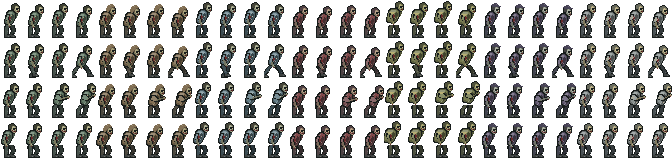
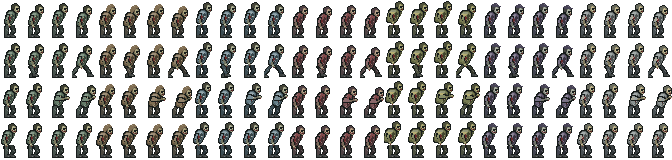
Refine character silhouettes and eight-direction movement

diff --git a/game/view.js b/game/view.js
@@ -1417,7 +1417,7 @@ const View = (() => {
   }
 
   function actorFrame(shirt, trousers, skin, hair, direction, pose, step, lift, pack, gesture, cut = "short") {
-    const back = (direction & 2) !== 0, axial = (direction & 4) !== 0;
+    const back = (direction & 2) !== 0, axial = (direction & 4) !== 0, profile = (direction & 8) !== 0;
     const showPack = back && pack && pose !== "dead";
     const key = [shirt, trousers, skin, hair, direction, pose, step, lift, showPack, gesture, cut].join("|");
     if (actorFrames.has(key)) return actorFrames.get(key);
@@ -1464,13 +1464,15 @@ const View = (() => {
       rect(24,40,3,2,shirt); rect(28,41,3,2,skinDark); rect(29,39,3,2,hair);
     } else {
       const strike = pose === "strike" || pose === "chase";
-      const crouch = pose === "rest" ? 7 : pose === "sneak" ? 4 : 0;
-      const lean = pose === "hurt" ? -3 : strike ? [-2,1,3][gesture] : pose === "run" || pose === "sneak" ? 2 : 0;
+      const running = pose === "run";
+      const crouch = pose === "rest" ? 7 : pose === "sneak" ? 4 : running ? 1 : 0;
+      const lean = pose === "hurt" ? -3 : strike ? [-2,1,3][gesture] : running ? 4 : pose === "sneak" ? 2 : 0;
       const x = 18 + (axial ? Math.sign(lean) : lean);
       const y = 15 + crouch - Number(lift !== 0) - (pose === "idle" ? gesture : 0);
       const hip = Math.min(34,y+14);
-      for (const [leg,root] of [21,15].entries()) {
-        const stride = (leg ? step : -step) * (axial ? 1 : 3);
+      const legs = profile ? [19,16] : [21,15];
+      for (const [leg,root] of legs.entries()) {
+        const stride = (leg ? step : -step) * (axial ? 1 : running ? 4 : 3);
         const knee = root + Math.round(stride*.6) + Number(crouch>0), foot = root + (axial ? 0 : stride);
         const depth = axial ? Math.min(0,Math.sign(stride)*(back ? -2 : 2)) : 0;
         const sole = 45 + depth - (lift === (leg ? -1 : 1) ? 3 : 0);
@@ -1479,44 +1481,54 @@ const View = (() => {
           [foot+5,sole-2],[foot+5,sole+1],[foot-4,sole+1],[foot-3,sole-4],[knee-3,bend]],ink);
         shape([[root-3,hip-1],[root+2,hip-1],[knee+2,bend],[foot+1,sole-4],
           [foot-2,sole-4],[knee-2,bend]],leg ? trousers : jeanDark);
+        if (leg) {
+          rect(knee-2,bend-2,3,2,jeanLight);
+          rect(knee,bend-3,2,1,jeanLight);
+        }
         rect(knee-1,bend,3,1,jeanLight);
         rect(knee,bend+1,2,1,jeanDark);
         rect(foot-2,sole-3,5,2,boot);
-        rect(foot+1,sole-2,3,1,"#82715b");
+        rect(foot+1,sole-2,3,1,"#a58a6b");
+        rect(foot-1,sole-3,2,1,"#b99b74");
         rect(foot-3,sole,7,1,"#65574a");
       }
       const swing = Math.sign(step);
-      const farHand = x-9+swing, farY = Math.min(41,y+14-swing);
+      const armSwing = swing * (running ? 5 : 2);
+      const farHand = x-(profile ? 5 : 9)+armSwing;
+      const farY = Math.min(41,y+14-(running ? 4 : 1)*Math.max(0,swing));
       shape([[x-7,y],[x-4,y+2],[farHand+3,y+8],[farHand+2,farY+2],
         [farHand-2,farY+2],[farHand-2,y+7],[x-9,y+3]],ink);
       shape([[x-7,y+1],[x-5,y+2],[farHand+1,y+8],[farHand+1,farY-1],
         [farHand-1,farY-1],[farHand-1,y+7],[x-8,y+3]],jacketDark);
       rect(farHand-1,farY-1,2,2,skinDark);
 
-      shape([[x-6,y-2],[x+4,y-2],[x+8,y+1],[x+6,y+6],[x+4,hip],
-        [x-5,hip],[x-6,hip-4],[x-8,y+2]],ink);
-      shape([[x-6,y-1],[x+3,y-1],[x+6,y+1],[x+5,y+6],[x+3,hip-1],
-        [x-4,hip-1],[x-5,hip-5],[x-7,y+2]],shirt);
-      shape([[x-6,y],[x+3,y],[x+2,y+2],[x-4,y+3],[x-6,y+2]],jacketLight);
-      rect(x+3,y+6,1,Math.max(1,hip-y-7),jacketDark);
+      const torsoLeft = x - (profile ? 5 : 7), torsoRight = x + (profile ? 5 : 7);
+      shape([[torsoLeft+1,y-2],[torsoRight-3,y-2],[torsoRight+1,y+1],[torsoRight-1,y+6],
+        [x+4,hip],[x-5,hip],[torsoLeft+1,hip-4],[torsoLeft-1,y+2]],ink);
+      shape([[torsoLeft+1,y-1],[torsoRight-4,y-1],[torsoRight-1,y+1],[torsoRight-2,y+6],
+        [x+3,hip-1],[x-4,hip-1],[torsoLeft+2,hip-5],[torsoLeft,y+2]],shirt);
+      shape([[torsoLeft+1,y],[torsoRight-4,y],[x+2,y+2],[x-4,y+3],[torsoLeft+1,y+2]],jacketLight);
+      shape([[torsoRight-2,y+4],[x+4,y+9],[x+3,hip-1],[x-3,hip-1],[x+1,hip-4]],jacketDark);
       rect(x-3,hip-2,5,1,jacketDark);
       if (!back) {
-        const zipper = x + (axial ? 0 : 1);
-        rect(zipper,y+2,1,hip-y-4,jacketDark);
-        rect(zipper,y+3,1,2,"#c2b8a0");
+        const zipper = x + (axial ? 0 : profile ? 3 : 1);
+        rect(zipper,y+1,1,hip-y-4,jacketDark);
+        rect(zipper,y+3,1,2,"#ded0ac");
         rect(x-4,y+5,3,1,jacketDark);
         rect(x-4,y+6,2,1,jacketLight);
-        rect(x-5,y+2,1,1,"#aea176");
+        rect(x-5,y+2,1,1,"#c4ad80");
+        rect(x-3,hip-4,2,1,jacketLight);
       }
 
-      const handX = strike ? Math.min(32,x+[6,13,11][gesture]) : x+9-swing;
-      const handY = strike ? y+[4,6,3][gesture] : Math.min(41,y+14+swing);
-      const elbow = strike ? x+7 : x+9;
+      const handX = Math.min(32,strike ? x+[6,13,11][gesture] : x+(profile ? 5 : 8)-armSwing);
+      const handY = strike ? y+[4,6,3][gesture] : Math.min(41,y+14+swing-(running ? 3 : 0));
+      const elbow = strike ? x+7 : x+(profile ? 4 : 7) - (running ? swing * 2 : 0);
       shape([[x+3,y],[x+7,y],[elbow+2,y+6],[handX+2,handY-1],
         [handX+2,handY+3],[handX-2,handY+3],[elbow-2,y+9],[x+2,y+3]],ink);
       shape([[x+3,y+1],[x+6,y+1],[elbow+1,y+6],[handX+1,handY-1],
         [handX-1,handY],[elbow-1,y+8]],shirt);
       rect(elbow,y+5,2,2,jacketLight);
+      rect(elbow-1,y+7,2,1,jacketDark);
       rect(handX-1,handY-1,3,1,jacketDark);
       rect(handX-1,handY,3,2,skin);
       rect(handX-1,handY,1,1,skinLight);
@@ -1533,7 +1545,7 @@ const View = (() => {
           }
         }
       }
-      const hx = x + Number(!axial && !back), hy = y-10;
+      const hx = x + (profile ? 2 : Number(!axial && !back)), hy = y-11;
       shape([[hx-5,hy+1],[hx-3,hy-1],[hx+3,hy-1],[hx+6,hy+2],[hx+6,hy+6],
         [hx+3,hy+10],[hx-3,hy+9],[hx-5,hy+6]],ink);
       shape([[hx-4,hy+2],[hx-2,hy],[hx+3,hy],[hx+5,hy+2],[hx+4,hy+6],
@@ -1544,8 +1556,8 @@ const View = (() => {
       } else {
         shape([[hx-4,hy+2],[hx-2,hy],[hx+3,hy],[hx+5,hy+2],[hx+2,hy+3],
           [hx-1,hy+3],[hx-3,hy+6],[hx-4,hy+5]],hair);
-        rect(hx-2,hy+1,4,1,tint(hair,26));
-        rect(hx-3,hy+2,2,1,tint(hair,13));
+        shape([[hx-3,hy+1],[hx+2,hy],[hx+4,hy+2],[hx+1,hy+3],[hx-3,hy+3]],tint(hair,24));
+        rect(hx-2,hy+1,3,1,tint(hair,38));
         if (cut === "wavy") {
           rect(hx-3,hy-1,3,2,hair);
           rect(hx+2,hy-1,2,2,hair);
@@ -1565,12 +1577,14 @@ const View = (() => {
       } else if (axial) {
         shape([[hx-4,hy+4],[hx+4,hy+4],[hx+3,hy+7],[hx+2,hy+9],[hx-2,hy+9],[hx-3,hy+7]],skin);
         rect(hx-3,hy+5,2,1,ink); rect(hx+1,hy+5,2,1,ink);
-        rect(hx-1,hy+6,2,1,skinLight); rect(hx-1,hy+8,2,1,skinDark);
+        rect(hx-2,hy+6,4,1,skinLight);
+        rect(hx-1,hy+8,2,1,skinDark);
       } else {
         shape([[hx,hy+3],[hx+4,hy+3],[hx+6,hy+6],[hx+4,hy+7],[hx+3,hy+9],
           [hx-1,hy+8],[hx-2,hy+6]],skin);
-        rect(hx+2,hy+4,2,1,ink);
-        rect(hx+4,hy+6,2,1,skinLight);
+        rect(hx+(profile ? 3 : 2),hy+4,2,1,ink);
+        rect(hx+2,hy+6,4,1,skinLight);
+        rect(hx,hy+5,1,2,skinDark);
         rect(hx+1,hy+8,2,1,skinDark);
       }
       if (pose === "hurt" && !back) rect(hx-2,hy+7,2,1,"#a86452");
@@ -1714,8 +1728,12 @@ const View = (() => {
     const swing = isPlayer && a.swing > 0 ? state.swingVisual : null;
     const dx = swing?.dx ?? a.headingX ?? (a.face < 0 ? -1 : 1), dy = swing?.dy ?? a.headingY ?? 0;
     const across = dx - dy, depth = dx + dy;
-    const axial = isPlayer && Math.abs(across) <= Math.abs(depth) * .35;
-    const direction = Number(across < 0) + 2 * Number(depth < 0) + 4 * Number(axial);
+    // Convert to screen-space before selecting the eight directional poses.
+    const screenX = Math.abs(across) * halfW, screenY = Math.abs(depth) * halfH;
+    const axial = isPlayer && screenX <= screenY * .414;
+    const profile = isPlayer && !axial && screenY <= screenX * .414;
+    const direction = Number(across < 0) + 2 * Number(depth < 0 && !profile) +
+      4 * Number(axial) + 8 * Number(profile);
     const imported = alive && a.stats && !isPlayer && drawZombieSprite(a, x, y, scale, dx < dy, stride.phase, clock);
     if (!imported) {
       const palette = isPlayer ? survivorPalette(a) : null;

diff --git a/tests/render-test.js b/tests/render-test.js
@@ -183,12 +183,12 @@ check("minimapa: repetições não redesenham os tiles", (m2.fillRect || 0) <= 2
 
   Object.assign(d.player,{flash:0,moving:true});
   d.quiet = d.running = false;
-  const directions = [[1,1],[-1,-1],[1,0],[0,-1]].map(([headingX,headingY]) => {
+  const directions = [[1,1],[-1,-1],[1,0],[0,-1],[1,-1],[-1,1],[0,1],[-1,0]].map(([headingX,headingY]) => {
     Object.assign(d.player,{headingX,headingY});
     return pose();
   });
   Object.assign(d.player,{headingX:1,headingY:1});
-  check("dark pixel: marcha usa poses distintas de frente, costas e diagonal",
+  check("dark pixel: marcha usa oito orientações de acordo com a projeção no ecrã",
     directions.every(Boolean) && new Set(directions).size === directions.length && pose() === directions[0]);
   const packPoses = [[1,1],[1,-1],[-1,1],[-1,-1]].map(([headingX,headingY]) => {
     Object.assign(d.player,{headingX,headingY,backpack:false});

diff --git a/docs/CODE_INDEX.md b/docs/CODE_INDEX.md
@@ -46,8 +46,8 @@ search:35 | pathTo:49 | start:55 | range:111 | finish:117 | objective:124 | read
 ## game/sim.js (3116 lines)
 weapon:19 | unequipWeapon:26 | wornItem:35 | addXp:45 | add:68 | remove:81 | notify:91 | stockGardenSeeds:97 | prepareSupplies:109 | addUtilities:128 | stockFieldGear:146 | placeStartingBat:174 | stockSkillBooks:186 | create:198 | createControl:274 | difficultyOptions:326 | setDifficulty:335 | dangerRating:354 | recordPlaytest:362 | createRecommended:366 | pinnedGoal:383 | nearby:392 | containers:396 | unreadClueAt:412 | nearbyClues:419 | readClue:424 | isSupplyCache:430 | nearbySupplyCache:435 | collectSupplyCache:441 | sources:453 | available:457 | consume:461 | collect:475 | collectAll:498 | drop:517 | stash:546 | use:556 | beltItem:636 | setBelt:644 | useBelt:651 | activeLight:660 | replaceBattery:665 | toggleLight:674 | recipeProblem:691 | craft:707 | place:727 | vehicle:765 | enterVehicle:769 | exitVehicle:790 | refuel:818 | vehicleRepairProblem:832 | repairVehicle:840 | brake:852 | updateVehicle:859 | destination:938 | markDestination:951 | markStation:971 | travelProblem:978 | arrivalPosition:988 | travel:999 | exploredTile:1035 | saveMapPin:1040 | markPin:1059 | removePin:1067 | noise:1075 | hear:1091 | hearZombie:1099 | encounterSlots:1114 | newInfected:1120 | freeEncounterSpot:1126 | wakeNest:1132 | touchFungus:1151 | noticeCrib:1155 | inspectCrib:1165 | warnHorde:1171 | resumeEncounterWarning:1178 | waveSpots:1182 | updateHordes:1192 | waitWithWatch:1249 | armWatch:1270 | updateAtmosphere:1280 | listenAtDoor:1341 | sceneProblem:1361 | revealLedgerCache:1366 | resolveScene:1372 | dispatchProblem:1398 | sendDispatch:1407 | readDispatchReport:1414 | settleDispatch:1422 | openingOccupied:1454 | breachProblem:1468 | breach:1477 | door:1507 | barricade:1534 | unboard:1550 | removeBarrier:1561 | minutesToRain:1572 | sight:1601 | canSee:1608 | drainLight:1617 | useTap:1626 | useGenerator:1646 | updateUtilities:1666 | fireBatch:1698 | startFireBatch:1705 | collectFireBatch:1720 | wildProblem:1754 | useWild:1774 | sow:1804 | waterGarden:1814 | gardenYield:1822 | harvestGarden:1828 | growGarden:1841 | updateOutdoor:1853 | catchUpArea:1864 | evaAtShelter:1884 | toggleGardenHelp:1889 | tendShelterGarden:1898 | dismantleFurniture:1920 | contextual:1930 | recruit:1985 | threats:1995 | damageFactor:1999 | aimChance:2006 | inAttackRange:2011 | closestInReach:2015 | attackTarget:2026 | touchAttackTarget:2032 | weaponProblem:2047 | endPursuit:2053 | endWindup:2059 | faceTowards:2064 | defeat:2069 | attack:2079 | shove:2125 | hurt:2151 | move:2199 | follow:2236 | walkTo:2262 | target:2274 | approach:2281 | updatePlayer:2297 | canTargetEva:2372 | updateEnemies:2376 | updateNpc:2492 | explore:2515 | updateExposure:2525 | updateNeeds:2537 | tick:2572 | updateDoorLure:2623 | breakLeg:2650 | healFracture:2658 | updateSickness:2667 | freeSpot:2690 | unstick:2703 | startSleep:2720 | fastSleep:2730 | sleep:2745 | moodles:2752 | snapshotPlayer:2776 | snapshotZone:2780 | snapshotRun:2788 | zoneShape:2804 | migrate:2819 | restore:2825
 
-## game/view.js (2745 lines)
-resize:22 | updateCamera:33 | poly:56 | line:65 | shadow:75 | box:83 | tint:91 | prepare:97 | bloodPool:162 | microDetail:167 | tileArt:218 | tendril:284 | tile:298 | glowSprite:316 | glow:333 | wall:343 | paintWall:370 | gardenTree:403 | paintFurniture:447 | drawFurniture:716 | campfireSmoke:736 | prop:756 | roof:1280 | roofArt:1302 | roofCoversPlayer:1353 | marker:1361 | survivorPalette:1407 | actorFrame:1419 | drawHeldWeapon:1606 | weaponIcon:1635 | drawZombieSprite:1655 | microActor:1698 | equipmentPortrait:1745 | actor:1758 | beamReach:1918 | flashlightBeam:1928 | warmBeamSprite:1948 | warmFlashlight:1971 | windowGlow:1997 | weatherEffects:2021 | drawDestination:2057 | chunkSignature:2084 | buildChunk:2092 | groundLayer:2120 | dimAround:2137 | afterlifePixels:2175 | afterlifePortrait:2202 | renderAfterlife:2214 | render:2362 | locate:2637 | mapFit:2657 | mapPoint:2662 | minimapLayer:2670 | minimap:2689
+## game/view.js (2763 lines)
+resize:22 | updateCamera:33 | poly:56 | line:65 | shadow:75 | box:83 | tint:91 | prepare:97 | bloodPool:162 | microDetail:167 | tileArt:218 | tendril:284 | tile:298 | glowSprite:316 | glow:333 | wall:343 | paintWall:370 | gardenTree:403 | paintFurniture:447 | drawFurniture:716 | campfireSmoke:736 | prop:756 | roof:1280 | roofArt:1302 | roofCoversPlayer:1353 | marker:1361 | survivorPalette:1407 | actorFrame:1419 | drawHeldWeapon:1620 | weaponIcon:1649 | drawZombieSprite:1669 | microActor:1712 | equipmentPortrait:1763 | actor:1776 | beamReach:1936 | flashlightBeam:1946 | warmBeamSprite:1966 | warmFlashlight:1989 | windowGlow:2015 | weatherEffects:2039 | drawDestination:2075 | chunkSignature:2102 | buildChunk:2110 | groundLayer:2138 | dimAround:2155 | afterlifePixels:2193 | afterlifePortrait:2220 | renderAfterlife:2232 | render:2380 | locate:2655 | mapFit:2675 | mapPoint:2680 | minimapLayer:2688 | minimap:2707
 
 ## game/game.js (2529 lines)
 read:63 | write:67 | backUp:71 | save:80 | clearStick:101 | resetInput:108 | updateDisplayMode:121 | toggleFullscreen:133 | activate:158 | setNavigation:179 | opening:186 | startLesson:200 | endLesson:213 | updateLesson:227 | startAfterlife:251 | deathSummary:261 | skipAfterlife:272 | endAfterlife:278 | afterlifeAction:285 | start:289 | startRecommended:307 | showStartDetail:322 | savedAssists:335 | assistsOn:342 | difficultyPanel:347 | applyDifficulty:368 | rememberSetup:389 | worldRulesEditor:395 | applyWorldRules:413 | resumeSaved:429 | show:447 | close:461 | menu:474 | titleScreen:484 | wakeSound:501 | cue:514 | syncSound:526 | objectives:535 | objectiveHtml:545 | skillsHtml:549 | conditions:559 | nearbyObjects:574 | interactionLabel:588 | canTalk:600 | setHtml:606 | updateHud:612 | help:740 | landmarks:750 | map:760 | savePinForm:810 | itemIcon:821 | weaponCondition:826 | itemDescription:832 | matches:860 | inventoryItems:870 | nearbyItems:893 | updateInventoryLists:914 | bag:956 | useBelt:994 | updateBelt:1001 | beltPanel:1023 | gear:1037 | survivorFields:1091 | survivorProfile:1100 | updateSurvivorPreview:1107 | setSetupSurvivor:1115 | editSurvivor:1123 | crafting:1137 | health:1158 | diary:1188 | dispatchStatus:1211 | fieldLedger:1226 | ledgerEntry:1265 | ledgerReport:1271 | ledgerPanel:1280 | playtestReport:1316 | copyPlaytest:1360 | knownStory:1373 | storyText:1378 | outbreakLog:1382 | storyEntry:1391 | supplyRun:1400 | gardenStatus:1428 | gardenProject:1437 | waterProject:1457 | utilities:1478 | releases:1497 | research:1504 | npcPanel:1512 | gardenPanel:1529 | stationPanel:1553 | objectPanel:1600 | interact:1716 | interactions:1725 | nearbyAction:1742 | strike:1771 | quickUse:1779 | pause:1786 | visualAtmosphere:1796 | atmospherePanel:1800 | applyAtmosphere:1810 | exportSave:1821 | refreshPanel:1828 | bagChanged:1836 | changeInventory:1846 | bindTap:2180 | updateStick:2253 | shoveOrBrake:2281 | frame:2403
